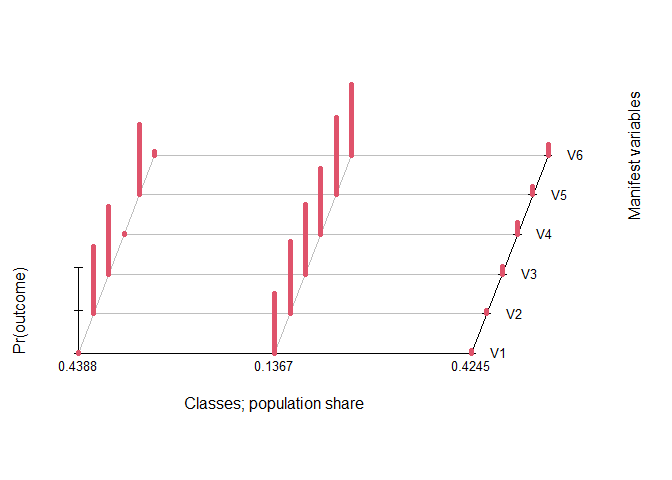
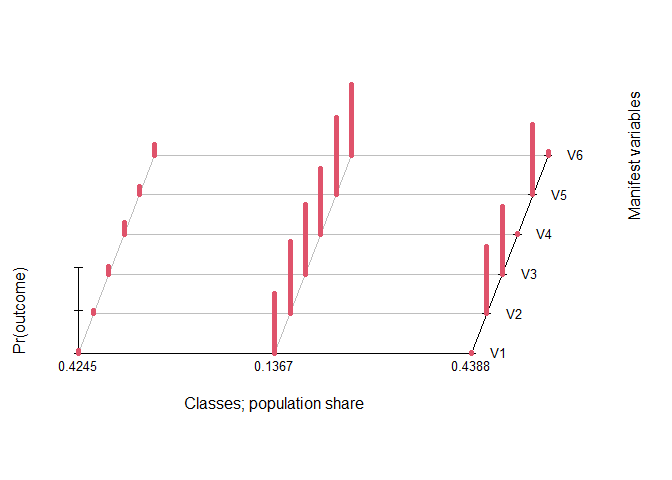
Added plot of 3step

diff --git a/README.md b/README.md
@@ -36,13 +36,13 @@ anova(LCA1, LCA2, LCA3, LCA4)
 
     ##   nclass df     llike      AIC      BIC  Classes.size Entropy Relative.Entropy
     ## 1      1 57 -2687.896 5387.793 5415.900           800   3.360                 
-    ## 2      2 50 -2365.285 4756.570 4817.470       373|427   2.957            0.803
+    ## 2      2 50 -2463.806 4953.612 5014.512        98|702   3.082            0.897
     ## 3      3 43 -2195.821 4431.642 4525.334   101|345|354   2.746            0.840
     ## 4      4 36 -2190.270 4434.540 4561.025 49|73|324|354   2.736            0.871
     ##       LMR      p
     ## 1               
-    ## 2 614.576 < .001
-    ## 3 322.830 < .001
+    ## 2 426.893 < .001
+    ## 3 510.513 < .001
     ## 4  10.574  0.158
 
 The function readily gathers all relevant statitics to choose the number
@@ -96,16 +96,16 @@ poLCA.lmr(LCA3)
 ```
 
     ## $vlmr
-    ## [1] 338.9282
+    ## [1] 535.9702
     ## 
     ## $lmr
-    ## [1] 322.83
+    ## [1] 510.513
     ## 
     ## $df
     ## [1] 7
     ## 
     ## $lmr.p
-    ## [1] 8.005233e-66
+    ## [1] 4.401763e-106
 
 The relative entropy, which is more often requested than the entropy,
 has been added.
@@ -114,7 +114,7 @@ has been added.
 poLCA.relentropy(LCA3)
 ```
 
-    ## [1] 0.8396915
+    ## [1] 0.8396914
 
 Predicted probabilities and classes
 
@@ -123,12 +123,12 @@ head(round(predict(LCA3), 3))
 ```
 
     ##   Pr(Class==1) Pr(Class==2) Pr(Class==3) Pred
-    ## 1        0.039        0.004        0.957    3
-    ## 2        0.020        0.003        0.977    3
-    ## 3        0.000        0.005        0.994    3
-    ## 4        0.020        0.003        0.977    3
-    ## 5        0.455        0.001        0.543    3
-    ## 6        0.638        0.001        0.362    1
+    ## 1        0.957        0.039        0.004    1
+    ## 2        0.977        0.020        0.003    1
+    ## 3        0.994        0.000        0.005    1
+    ## 4        0.977        0.020        0.003    1
+    ## 5        0.543        0.455        0.001    1
+    ## 6        0.362        0.638        0.001    2
 
 ``` r
 # head(round(predict(LCAE, nclass = 3),3))
@@ -181,12 +181,12 @@ poLCA.residual.cov(LCAE, nclass = 3)
     ##  Residual covariance matrix of Class == 1 
     ##  
     ##       V1    V2    V3    V4    V5    V6
-    ## V1 0.083 0.029 0.021 0.054 0.028 0.059
-    ## V2 0.029 0.121 0.162 0.012 0.165 0.024
-    ## V3 0.021 0.162 0.086 0.018 0.104 0.025
-    ## V4 0.054 0.012 0.018 0.134 0.014 0.064
-    ## V5 0.028 0.165 0.104 0.014 0.100 0.015
-    ## V6 0.059 0.024 0.025 0.064 0.015 0.096
+    ## V1 0.067 0.033 0.026 0.056 0.027 0.060
+    ## V2 0.033 0.244 0.132 0.011 0.138 0.019
+    ## V3 0.026 0.132 0.161 0.014 0.142 0.011
+    ## V4 0.056 0.011 0.014 0.026 0.026 0.057
+    ## V5 0.027 0.138 0.142 0.026 0.143 0.034
+    ## V6 0.060 0.019 0.011 0.057 0.034 0.041
     ## 
     ##  Residual covariance matrix of Class == 2 
     ##  
@@ -201,12 +201,12 @@ poLCA.residual.cov(LCAE, nclass = 3)
     ##  Residual covariance matrix of Class == 3 
     ##  
     ##       V1    V2    V3    V4    V5    V6
-    ## V1 0.067 0.033 0.026 0.056 0.027 0.060
-    ## V2 0.033 0.244 0.132 0.011 0.138 0.019
-    ## V3 0.026 0.132 0.161 0.014 0.142 0.011
-    ## V4 0.056 0.011 0.014 0.026 0.026 0.057
-    ## V5 0.027 0.138 0.142 0.026 0.143 0.034
-    ## V6 0.060 0.019 0.011 0.057 0.034 0.041
+    ## V1 0.083 0.029 0.021 0.054 0.028 0.059
+    ## V2 0.029 0.121 0.162 0.012 0.165 0.024
+    ## V3 0.021 0.162 0.086 0.018 0.104 0.025
+    ## V4 0.054 0.012 0.018 0.134 0.014 0.064
+    ## V5 0.028 0.165 0.104 0.014 0.100 0.015
+    ## V6 0.059 0.024 0.025 0.064 0.015 0.096
 
 ``` r
 # poLCA.residual.cov(LCA3)
@@ -216,53 +216,30 @@ Bootstrap 3-step approach
 
 ``` r
 # Tester des variables supplémentaires
-d3step("categorical", LCAE, nclass = 3)
-```
-
-    ## $stats
-    ##            LR           AIC            df             p 
-    ##  1.648482e+01 -1.248482e+01  2.000000e+00  9.050782e-04 
-    ## 
-    ## $M
-    ## , , 2.5%
-    ## 
-    ##                    Pr(Class==1) Pr(Class==2) Pr(Class==3)
-    ## Pr(categorical==0)    0.4321936    0.2896893    0.2916190
-    ## Pr(categorical==1)    0.5364805    0.6516695    0.6790153
-    ## 
-    ## , , 50%
-    ## 
-    ##                    Pr(Class==1) Pr(Class==2) Pr(Class==3)
-    ## Pr(categorical==0)    0.4476304    0.3183963    0.3062226
-    ## Pr(categorical==1)    0.5523696    0.6816037    0.6937774
-    ## 
-    ## , , 97.5%
-    ## 
-    ##                    Pr(Class==1) Pr(Class==2) Pr(Class==3)
-    ## Pr(categorical==0)    0.4635195    0.3483305    0.3209847
-    ## Pr(categorical==1)    0.5678064    0.7103107    0.7083810
-
-``` r
+d3 <- d3step("categorical", LCAE, nclass = 3)
 # d3step("categorical", LCA3)
 
-r3step("continuous", LCAE, nclass = 3)
-```
-
-    ## $stats
-    ##            LR           AIC            df            R2             p 
-    ##  1.150342e+01 -1.900683e+01  2.000000e+00  2.833514e-02  7.237379e-05 
-    ## 
-    ## $M
-    ##       Pr(Class==1) Pr(Class==2) Pr(Class==3)
-    ## 2.5%      23.74267     20.79426     21.47949
-    ## 50%       24.01165     21.19266     21.71723
-    ## 97.5%     24.27648     21.65222     21.95221
-
-``` r
+r3 <- r3step("continuous", LCAE, nclass = 3)
 # r3step("continuous", LCA3)
 ```
 
 The 3-step approches will be improved.
+
+d3step plot
+
+``` r
+plot(d3, ci = c(.05,.95))
+```
+
+![](README_files/figure-gfm/d3stepplot-1.png)<!-- -->
+
+r3step plot
+
+``` r
+plot(r3, ci = c(.05, .95))
+```
+
+![](README_files/figure-gfm/r3stepplot-1.png)<!-- -->
 
 # How to cite
 
